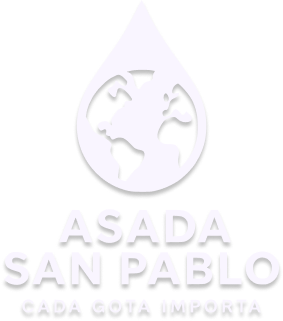
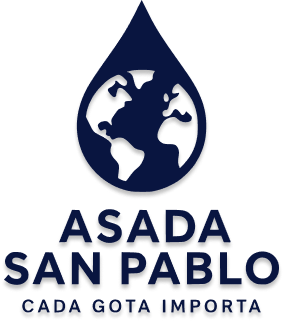
cambios

diff --git a/src/Modules/Auth/Pages/ResetPassword.tsx b/src/Modules/Auth/Pages/ResetPassword.tsx
@@ -1,25 +1,43 @@
-import { useForm } from '@tanstack/react-form';
-import { ForgotPasswordInitialState } from '../Models/ForgotPassword';
-import { useForgotPasswd } from '../Hooks/AuthHooks';
-import { useNavigate } from '@tanstack/react-router';
+import { useForm } from "@tanstack/react-form";
+import { useNavigate } from "@tanstack/react-router";
+import { ResetPasswordInitialState } from "../Models/ResetPassword";
+import { useResetPassword } from "../Hooks/AuthHooks";
+import { useState } from "react";
 import g29 from '../assets/g29.png';
 
-const ForgotPassword = () => {
+const ResetPassword = () => {
   const navigate = useNavigate();
+  const resetPasswdMutation = useResetPassword();
+  const [isSuccess, setIsSuccess] = useState(false);
 
-  const goLogin = () => {
-    navigate({ to: '/auth/login' });
-  };
+  // Leer ?token=... desde la URL
+  const token = new URLSearchParams(window.location.search).get("token") ?? "";
+  console.log("URL token?", token); // TEMP
 
-  const useForgotPasswdMutation = useForgotPasswd();
   const form = useForm({
-    defaultValues: ForgotPasswordInitialState,
-    // validators: { onChange: RegisterSchema },
+    defaultValues: ResetPasswordInitialState,
     onSubmit: async ({ value }) => {
-      await useForgotPasswdMutation.mutateAsync(value);
-      console.log('exito');
+      if (value.NewPassword !== value.ConfirmPassword) {
+        alert("Las contraseñas no coinciden");
+        return;
+      }
+      if (!token) {
+        alert("Token no encontrado en la URL");
+        return;
+      }
+
+      await resetPasswdMutation.mutateAsync({
+        payload: value,
+        token,
+      });
+
+      form.reset();
+      setIsSuccess(true);
+      // La navegación ocurre en onSuccess del hook si así lo definiste.
     },
   });
+
+  const goLogin = () => navigate({ to: "/auth/login" });
 
   return (
     <div
@@ -41,8 +59,8 @@ const ForgotPassword = () => {
       />
 
       {/* Título */}
-      <h1 className="text-3xl sm:text-3xl font-extrabold text-[#091540] text-center mb-6 sm:mb-8 relative z-10">
-        Olvidó su contraseña
+      <h1 className="text-3xl sm:text-3xl font-extrabold text-[#091540] text-center mb-6 sm:mb-8">
+        Restablecer contraseña
       </h1>
 
       {/* Formulario */}
@@ -51,19 +69,20 @@ const ForgotPassword = () => {
           e.preventDefault();
           form.handleSubmit();
         }}
-        className="w-full flex flex-col mt-6 relative z-10"
+        className="w-full flex flex-col mt-6"
       >
         <div className="w-full flex flex-col gap-3">
-          {/* Cédula */}
-          <form.Field name="IDcard">
+          {/* Nueva contraseña */}
+          <form.Field name="NewPassword">
             {(field) => (
               <>
                 <input
-                  type="text"
+                  type="password"
                   value={field.state.value}
                   onBlur={field.handleBlur}
                   onChange={(e) => field.handleChange(e.target.value)}
-                  placeholder="Ingrese su Número de Cédula"
+                  placeholder="Nueva contraseña"
+                  autoComplete="new-password"
                   className="
                     w-full px-4 py-3 border border-gray-300
                     text-[#091540] text-sm outline-none
@@ -80,17 +99,17 @@ const ForgotPassword = () => {
             )}
           </form.Field>
 
-          {/* Correo */}
-          <form.Field name="Email">
+          {/* Confirmar contraseña */}
+          <form.Field name="ConfirmPassword">
             {(field) => (
               <>
                 <input
-                  type="email"
+                  type="password"
                   value={field.state.value}
                   onBlur={field.handleBlur}
                   onChange={(e) => field.handleChange(e.target.value)}
-                  placeholder="Ingrese su Correo electrónico"
-                  autoComplete="email"
+                  placeholder="Confirmar contraseña"
+                  autoComplete="new-password"
                   className="
                     w-full px-4 py-3 border border-gray-300
                     text-[#091540] text-sm outline-none
@@ -109,7 +128,7 @@ const ForgotPassword = () => {
         </div>
 
         {/* Acciones */}
-        <form.Subscribe selector={(state) => [state.canSubmit, state.isSubmitting]}>
+        <form.Subscribe selector={(s) => [s.canSubmit, s.isSubmitting]}>
           {([canSubmit, isSubmitting]) => (
             <div
               className="
@@ -118,29 +137,47 @@ const ForgotPassword = () => {
             >
               <button
                 type="button"
-                className="underline text-[#091540] font-medium hover:text-[#1789FC] text-sm text-center sm:text-left"
                 onClick={goLogin}
+                className="underline text-[#091540] font-medium hover:text-[#1789FC] text-sm text-center sm:text-left"
               >
-                Regresar a Iniciar sesión
+                Iniciar sesión
               </button>
 
               <button
                 type="submit"
-                disabled={!canSubmit}
+                disabled={!canSubmit || isSubmitting || !token}
                 className={`
                   w-full sm:w-auto
                   px-5 py-2.5 text-white font-semibold shadow-md transition
-                  ${canSubmit ? 'bg-[#091540] hover:bg-[#1789FC]' : 'bg-[#091540]/60 cursor-not-allowed'}
+                  ${(!canSubmit || !token)
+                    ? 'bg-[#091540]/60 cursor-not-allowed'
+                    : 'bg-[#091540] hover:bg-[#1789FC]'}
                 `}
               >
-                {isSubmitting ? '...' : 'Enviar'}
+                {isSubmitting ? "..." : "Restablecer"}
               </button>
             </div>
           )}
         </form.Subscribe>
+
+        {/* Mensaje de éxito */}
+        {isSuccess && (
+          <div className="mt-6 text-center">
+            <p className="font-extrabold text-[#091540]">
+              ¡Se ha restablecido la contraseña correctamente!
+            </p>
+            <button
+              type="button"
+              onClick={goLogin}
+              className="underline font-semibold text-[#1789FC] hover:text-[#091540]"
+            >
+              Ir a iniciar sesión
+            </button>
+          </div>
+        )}
       </form>
     </div>
   );
 };
 
-export default ForgotPassword;
+export default ResetPassword;

diff --git a/src/Modules/Auth/Pages/LoginUser.tsx b/src/Modules/Auth/Pages/LoginUser.tsx
@@ -3,6 +3,7 @@ import { useForm } from "@tanstack/react-form";
 import { AuthInitialState } from "../Models/Auth";
 import { AuthSchema } from "../Schemas/AuthSchemas";
 import { useNavigate } from "@tanstack/react-router";
+import g29 from '../assets/g29.png';
 
 
 const LoginUser = () => {
@@ -30,16 +31,23 @@ const LoginUser = () => {
   return (
     <div
       className="
-        w-[97%] sm:w-[80%] md:w-[60%] lg:w-[40%] 
-        h-[40%] md:h-[40%]
+        relative
+        w-[90%] sm:w-[80%] md:w-[60%] lg:w-[40%]
+        h-[60%] md:h-[40%]
         max-w-md sm:min-w-[320px]
         bg-white border border-gray-200 p-6 sm:p-8
         flex flex-col items-center justify-center
-        
+        shadow-xl
       "
     >
+      {/* Marca de agua */}
+      <img
+        src={g29}
+        alt="Logo ASADA"
+        className="absolute inset-0 h-90 opacity-4 mx-auto my-auto pointer-events-none select-none "
+      />
       {/* Título */}
-      <h1 className="text-3xl sm:text-3xl font-extrabold text-[#091540] text-center mb-6 sm:mb-8 ">
+      <h1 className="text-5xl sm:text-3xl font-extrabold text-[#091540] text-center mb-6 sm:mb-8 ">
         Iniciar sesión
       </h1>
 
@@ -61,7 +69,7 @@ const LoginUser = () => {
                   value={field.state.value}
                   onBlur={field.handleBlur}
                   onChange={(e) => field.handleChange(e.target.value)}
-                  placeholder="Correo electrónico"
+                  placeholder="Ingrese su Correo electrónico"
                   autoComplete="email"
                   className="w-full px-4 py-3 border border-gray-300  text-[#091540] text-sm outline-none focus:ring-2 focus:ring-[#1789FC]/60"
                 />
@@ -83,7 +91,7 @@ const LoginUser = () => {
                   value={field.state.value}
                   onBlur={field.handleBlur}
                   onChange={(e) => field.handleChange(e.target.value)}
-                  placeholder="Contraseña"
+                  placeholder="Ingrese su Contraseña"
                   autoComplete="current-password"
                   className="w-full px-4 py-3 border border-gray-300 text-[#091540] text-sm outline-none focus:ring-2 focus:ring-[#1789FC]/60"
                 />

diff --git a/src/Routes.tsx b/src/Routes.tsx
@@ -1,5 +1,5 @@
 import { createRootRoute, Outlet, createRoute } from "@tanstack/react-router";
-import { authRoute, forgotPasswordRoute, loginRoute } from "./Modules/Auth/Routes/AuthRoutes";
+import { authRoute, forgotPasswordRoute, loginRoute, resetPasswordRoute } from "./Modules/Auth/Routes/AuthRoutes";
 import { dashboardRoute, dashboardIndexRoute } from "./Modules/Dashboard/Routes/DashboardRoutes";
 import { userProfileEditRoute, userProfileRoute, userProfileShowRoute, usersIndexRoute, usersRoute } from "./Modules/Users/Routes/UsersRoutes";
 
@@ -16,7 +16,11 @@ const indexRoute = createRoute({
 
 export const routeTree = rootRoute.addChildren([
   indexRoute,
-  authRoute.addChildren([loginRoute, forgotPasswordRoute]),
+  authRoute.addChildren([
+    loginRoute,
+     forgotPasswordRoute,
+     resetPasswordRoute
+    ]),
   dashboardRoute.addChildren([
     usersRoute.addChildren([
       usersIndexRoute,

diff --git a/src/Modules/Auth/Routes/AuthRoutes.ts b/src/Modules/Auth/Routes/AuthRoutes.ts
@@ -3,6 +3,7 @@ import { rootRoute } from "../../../Routes";
 import AuthLayout from "../Layouts/AuthLayout";
 import LoginUser from "../Pages/LoginUser";
 import ForgotPassword from "../Pages/ForgotPassword";
+import ResetPassword from "../Pages/ResetPassword";
 
 export const authRoute = createRoute({
   getParentRoute: () => rootRoute,
@@ -23,3 +24,8 @@ export const forgotPasswordRoute = createRoute({
 })
 
 
+export const resetPasswordRoute = createRoute({
+  getParentRoute: () => authRoute,
+  path : 'reset-password',
+  component: ResetPassword
+})

diff --git a/src/Modules/Auth/Layouts/AuthLayout.tsx b/src/Modules/Auth/Layouts/AuthLayout.tsx
@@ -3,7 +3,7 @@ import { Outlet } from '@tanstack/react-router';
 
 const AuthLayout = () => {
   return (
-    <div className='h-screen w-screen flex flex-col items-center justify-center bg-[#E5E5E5] bg-[url(/)]  bg-cover bg-center'>
+    <div className='h-[100dvh]  w-screen flex flex-col items-center justify-center bg-[#]  bg-cover bg-center sm:h-screen '>
       <Outlet /> 
     </div>
   )
